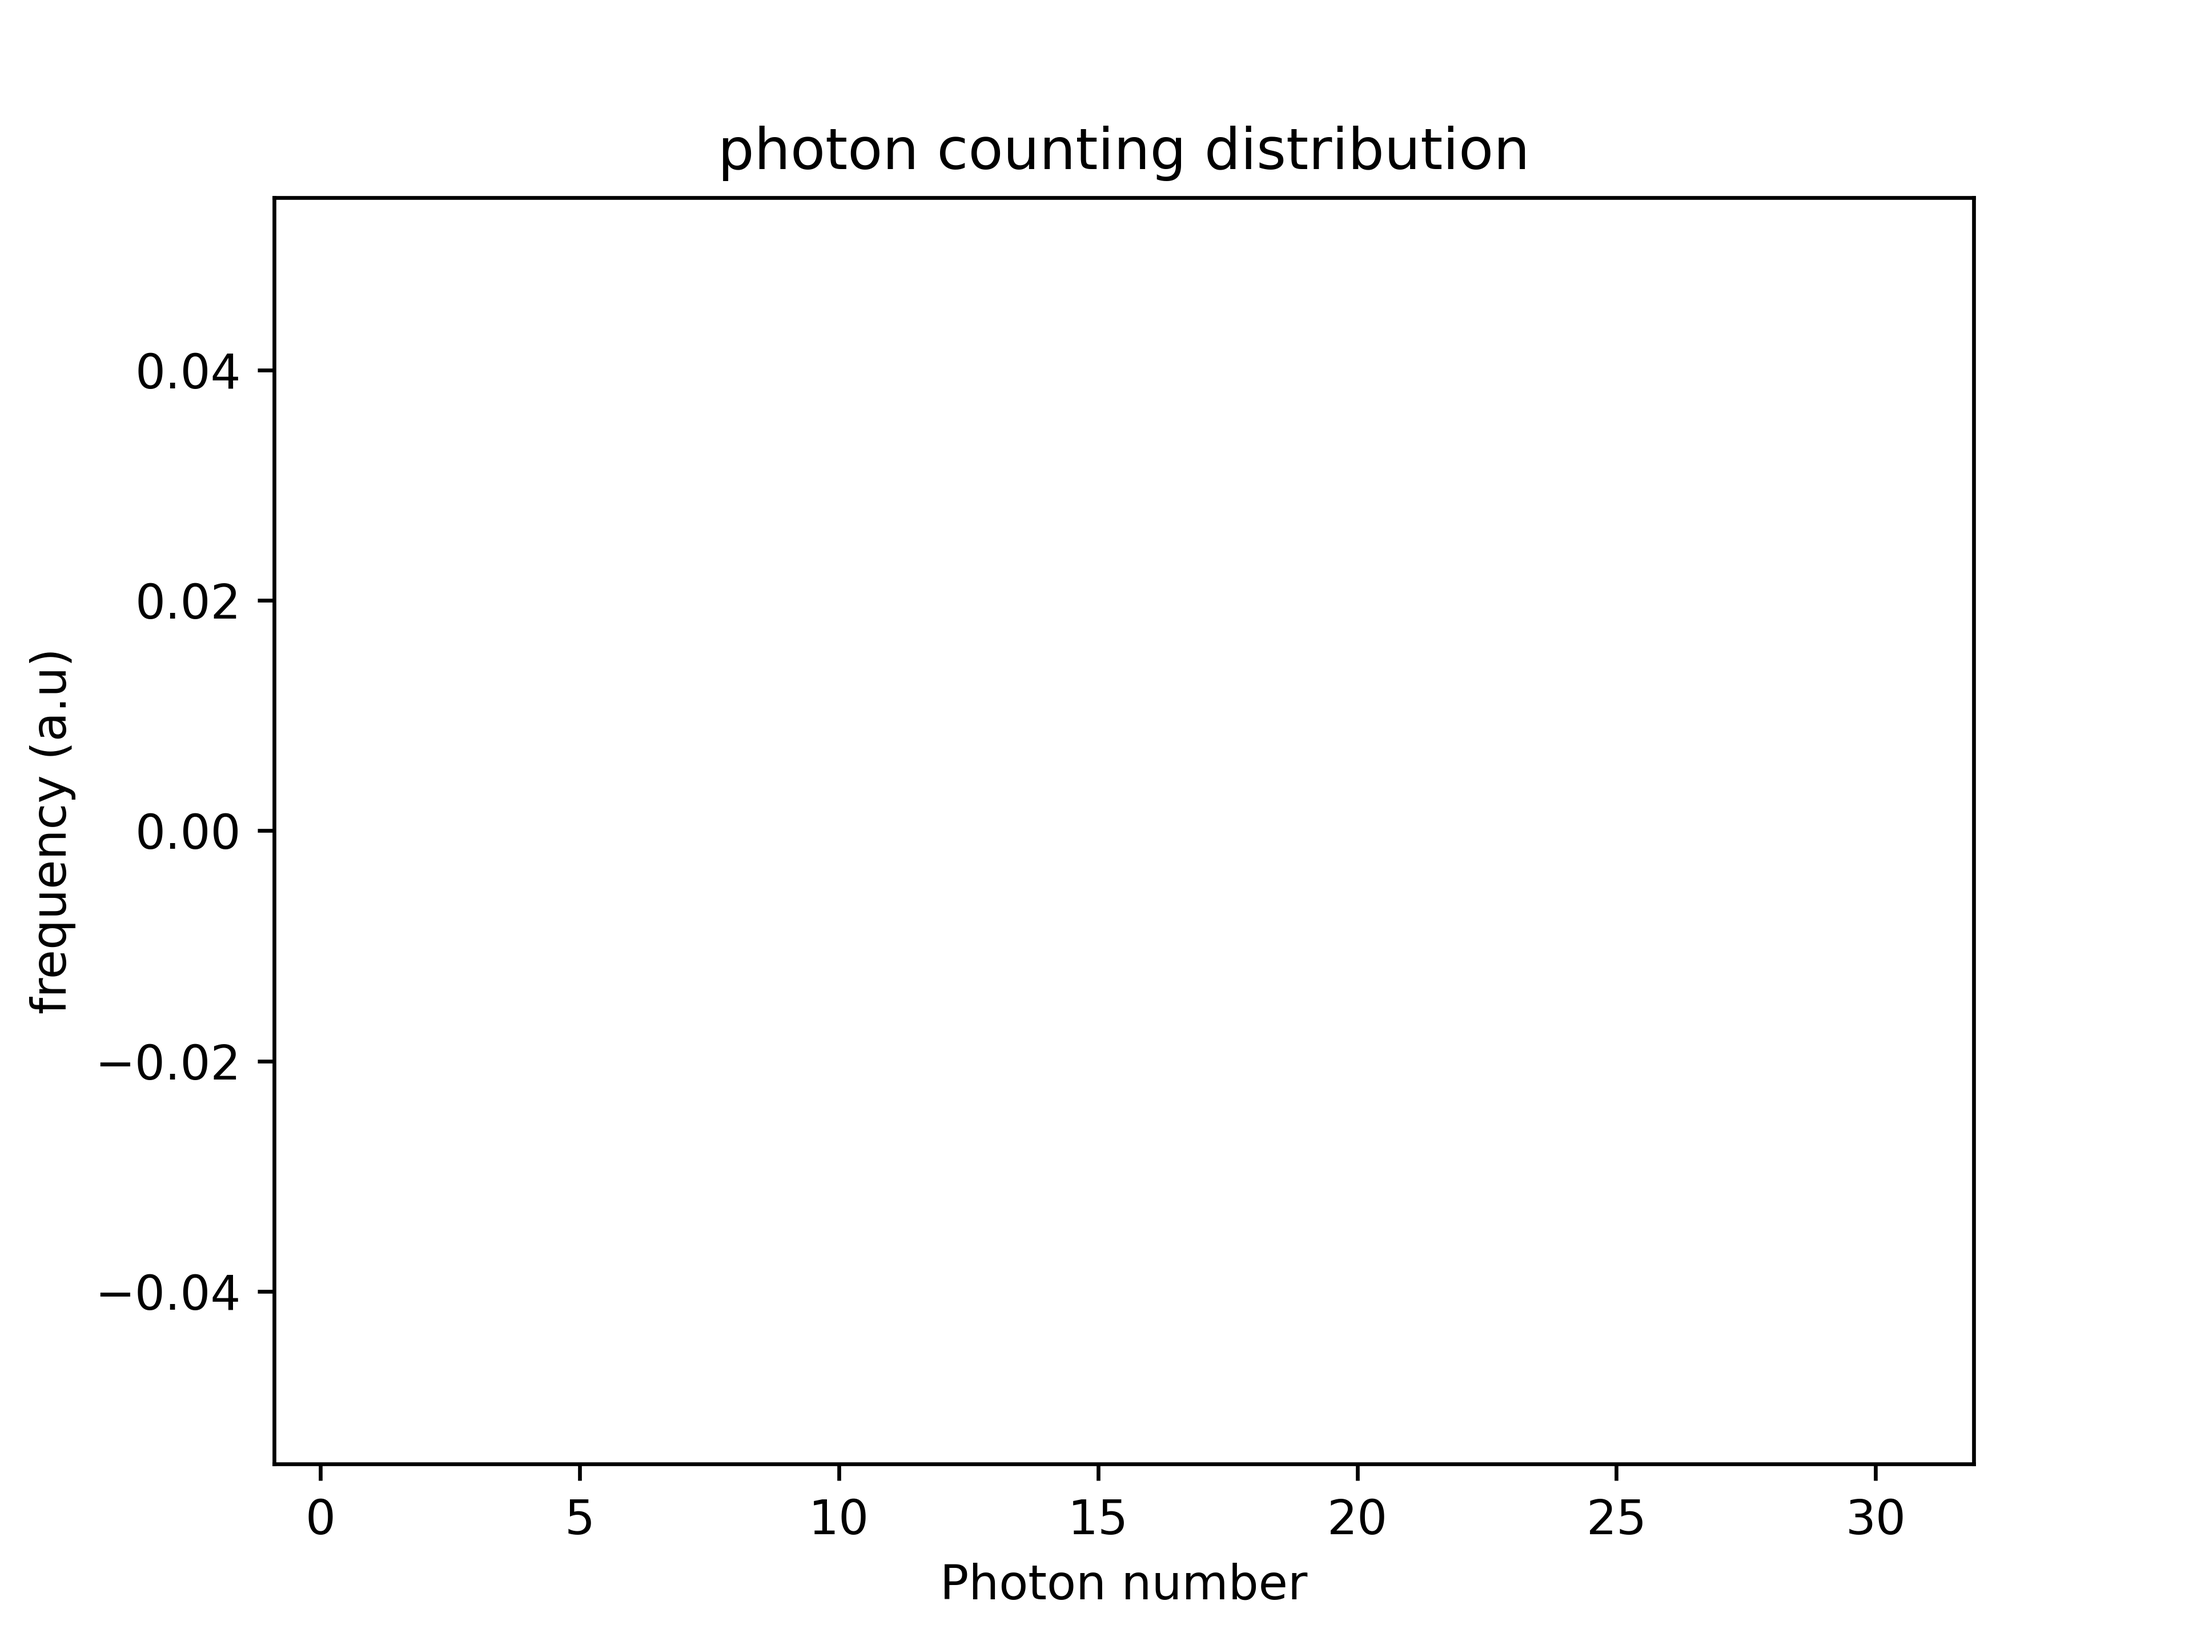
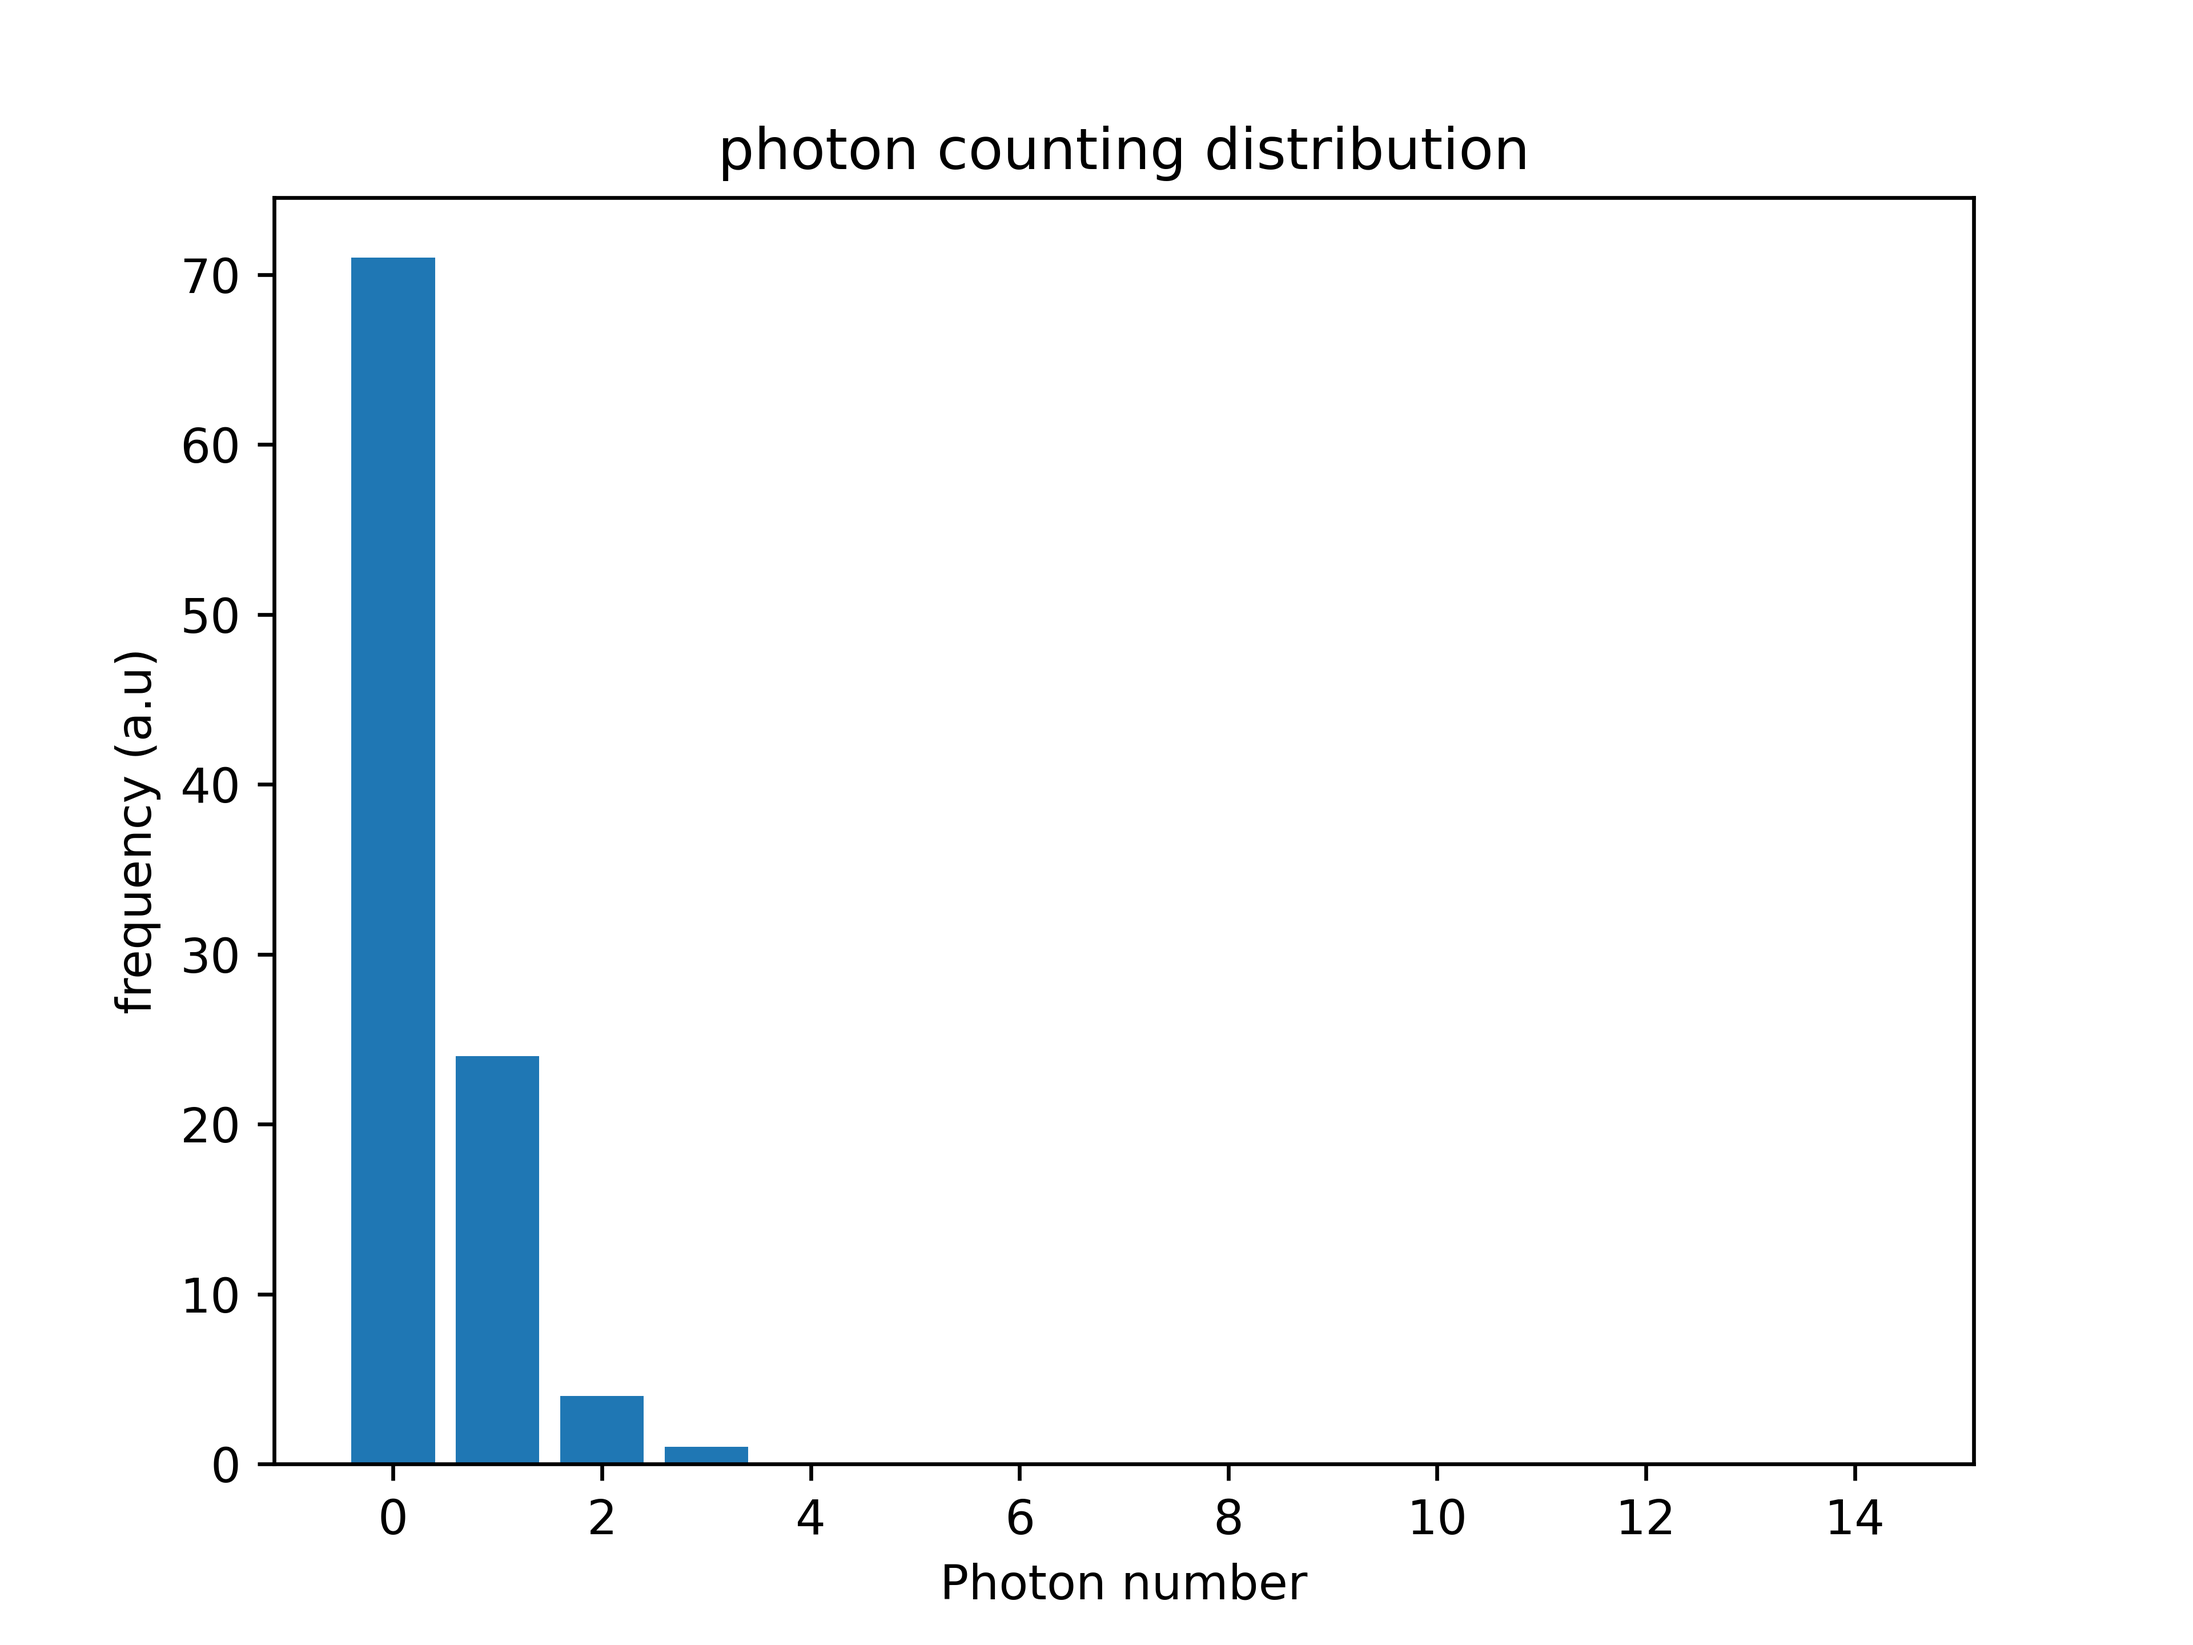
update

diff --git a/photon_counting.py b/photon_counting.py
@@ -9,7 +9,7 @@ photon_count_hist = []
 
 photon_count_data = photon_data
 
-x_list = [i for i in range(1,31)]
+x_list = [i for i in range(0,8)]
 
 
 
